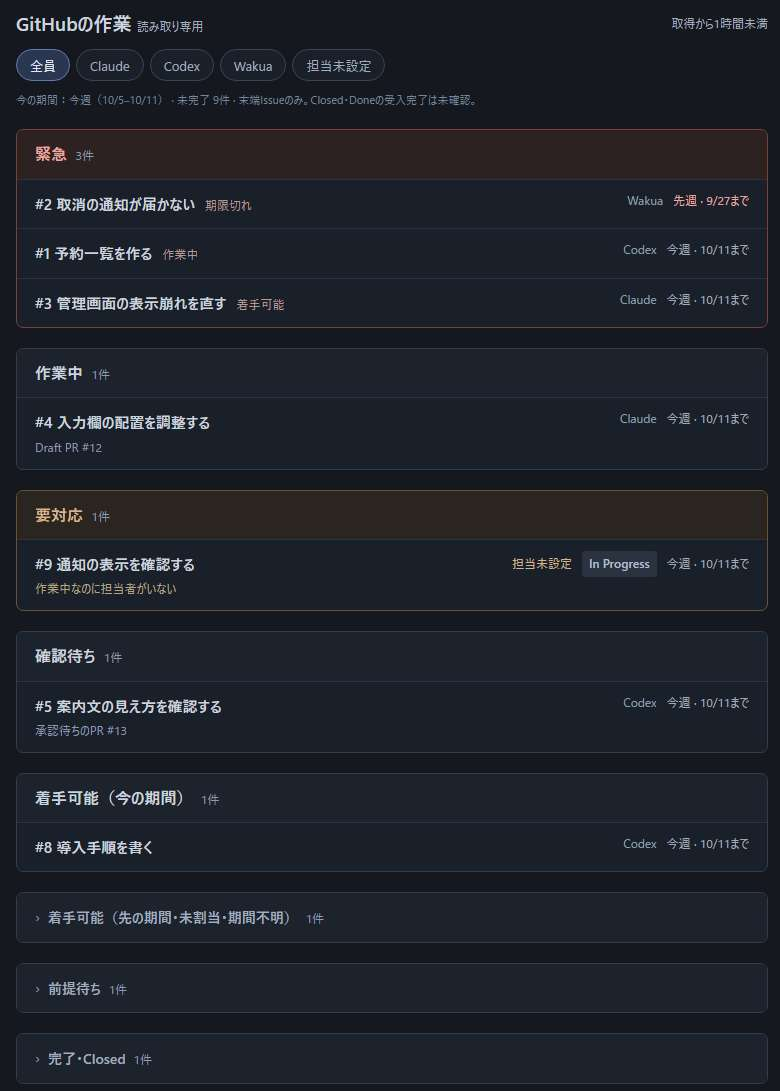
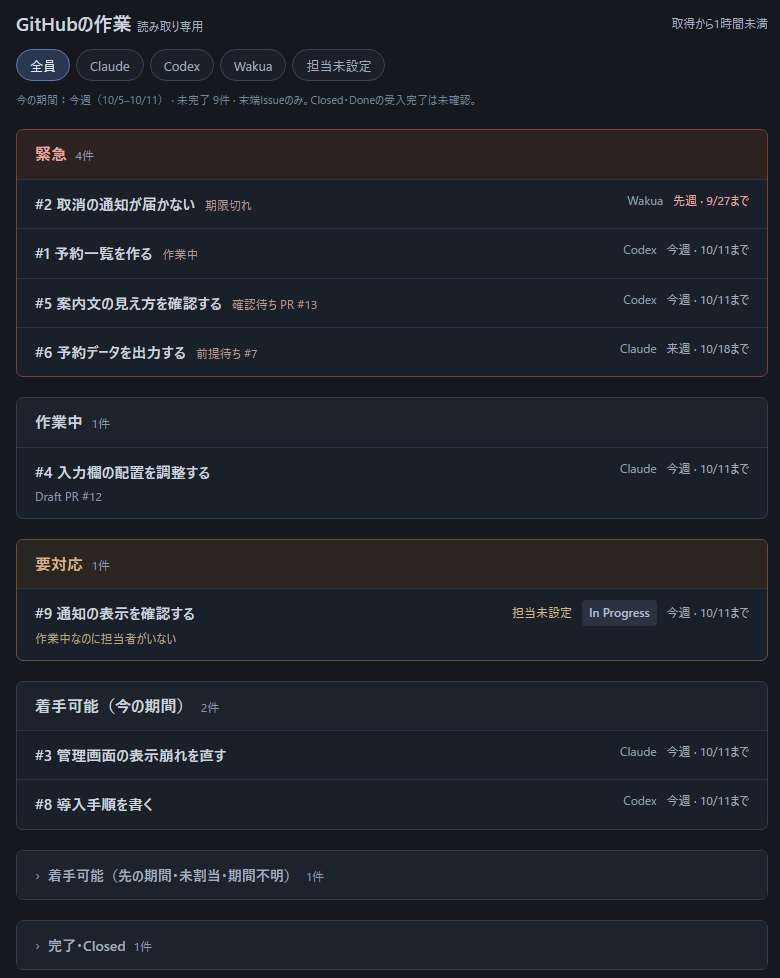
fix: 緊急の行に前提とPRの番号を残し、詳細で全件を確認できるようにする
緊急の行が「前提待ち」「確認待ち」の名前だけになり、確認する前提とPRの番号が消えていた。
行は1行のまま、前提・承認待ちのPR・Draft PRを2件まで番号で添える。
GitHubの作業の詳細に、前提と開いたPRの全件を、リンクと状態つきで示す。
development.mdの緊急の定義は、仕様書へのリンクにする。

Refs #10

diff --git a/docs/development.md b/docs/development.md
@@ -108,7 +108,7 @@ GitHubソースと隔離QAを確認している。
 ## 未実装・未決定事項
 
 - 双方向同期、プロジェクト名・repository URLの変更や削除、イテレーションの新規登録、親子Issueの構造編集は未実装である。
-- 手動の作業に緊急を指定する機能は未実装である。緊急はGitHub Projectの「優先度」だけで決める。
+- 手動の作業に緊急を指定する機能は未実装である。緊急の定義は[自分の作業と要対応](specification.md#自分の作業と要対応)に従う。
 - 手動計画とGitHubの作業の統合・移行、明示された完了条件の取得は未決定である。
 - 子Issueを持つIssue自身に独立した作業量がある場合は、作業Issueへ分ける運用か、別の集計規則を採用するかを接続前に決定する。
 - GitHubの計画の担当別負荷と週間の上限比較は未実装である。[Issue #18](https://github.com/Wakua/github-progress-board/issues/18)で管理する。
